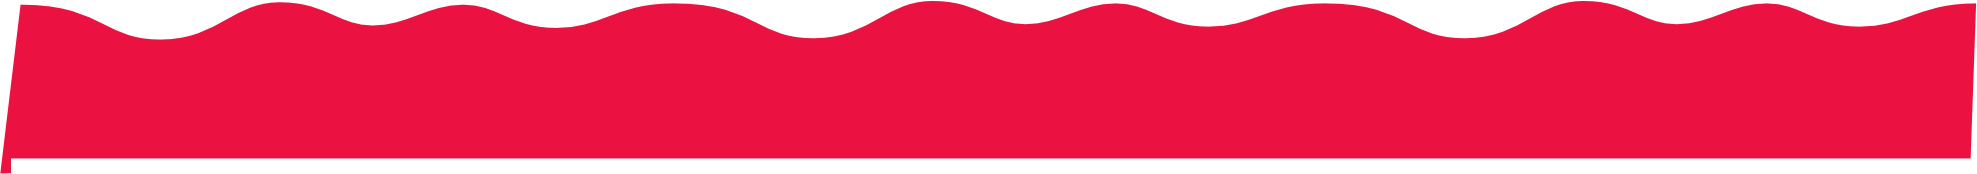
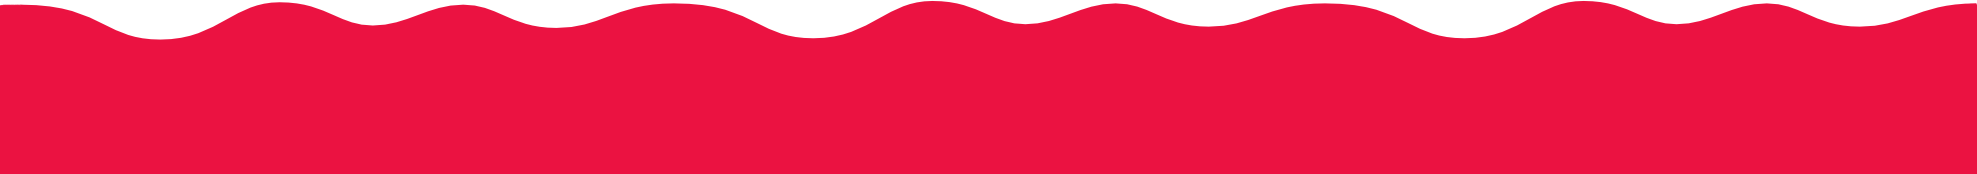
feat: update footer layout with new wave design, improved structure, and enhanced styling for better visual appeal

Changed region(s): [[0.0, 0.2299, 1.0, 1.0], [0.0, 0.0287, 0.0309, 0.7184]]

diff --git a/index.html b/index.html
@@ -591,50 +591,53 @@
     </section>
   </main>
 
-  <div class="section-divider section-divider--waves section-divider--waves-order-4 section-divider--flip"
+  <div class="section-divider section-divider--waves section-divider--waves-order-4"
     aria-hidden="true">
     <div class="section-divider__wave section-divider__wave--1"></div>
-    <div class="section-divider__wave section-divider__wave--2"></div>
+    
     <div class="section-divider__wave section-divider__wave--3"></div>
     <div class="section-divider__wave section-divider__wave--4"></div>
     <div class="section-divider__wave section-divider__wave--5"></div>
   </div>
 
   <footer class="site-footer">
-    <div class="container site-footer__grid">
-      <div>
-        <p class="site-footer__brand">Fruta Norte</p>
-        <p>Polpas de açaí premium com alma brasileira e visual de rua.</p>
-        <div class="site-footer__social">
-          <a href="https://wa.me/5500000000000" aria-label="WhatsApp" rel="noopener noreferrer"><img
-              src="assets/icons/whatsapp.svg" width="22" height="22" loading="lazy" alt="" /></a>
-          <a href="#" aria-label="Instagram" rel="noopener noreferrer"><img src="assets/icons/instagram.svg"
-              width="22" height="22" loading="lazy" alt="" /></a>
-          <a href="#" aria-label="Facebook" rel="noopener noreferrer"><img src="assets/icons/facebook.svg" width="22"
-              height="22" loading="lazy" alt="" /></a>
-          <a href="#" aria-label="YouTube" rel="noopener noreferrer"><img src="assets/icons/youtube.svg" width="22"
-              height="22" loading="lazy" alt="" /></a>
+    <div class="site-footer__top-wave" aria-hidden="true"></div>
+    <div class="site-footer__body">
+      <div class="container site-footer__grid">
+        <div>
+          <p class="site-footer__brand">Fruta Norte</p>
+          <p>Polpas de açaí premium com alma brasileira e visual de rua.</p>
+          <div class="site-footer__social">
+            <a href="https://wa.me/5500000000000" aria-label="WhatsApp" rel="noopener noreferrer"><img
+                src="assets/icons/whatsapp.svg" width="22" height="22" loading="lazy" alt="" /></a>
+            <a href="#" aria-label="Instagram" rel="noopener noreferrer"><img src="assets/icons/instagram.svg"
+                width="22" height="22" loading="lazy" alt="" /></a>
+            <a href="#" aria-label="Facebook" rel="noopener noreferrer"><img src="assets/icons/facebook.svg" width="22"
+                height="22" loading="lazy" alt="" /></a>
+            <a href="#" aria-label="YouTube" rel="noopener noreferrer"><img src="assets/icons/youtube.svg" width="22"
+                height="22" loading="lazy" alt="" /></a>
+          </div>
+        </div>
+        <div>
+          <h2 class="site-footer__title">Navegação</h2>
+          <ul class="site-footer__list">
+            <li><a href="#inicio">Início</a></li>
+            <li><a href="#sobre">Sobre</a></li>
+            <li><a href="#produtos">Produtos</a></li>
+            <li><a href="#contato">Contato</a></li>
+          </ul>
+        </div>
+        <div>
+          <h2 class="site-footer__title">Contato</h2>
+          <ul class="site-footer__list">
+            <li><a href="mailto:contato@frutanorte.com.br">contato@frutanorte.com.br</a></li>
+            <li><a href="#contato">Fale com a equipe</a></li>
+          </ul>
         </div>
       </div>
-      <div>
-        <h2 class="site-footer__title">Navegação</h2>
-        <ul class="site-footer__list">
-          <li><a href="#inicio">Início</a></li>
-          <li><a href="#sobre">Sobre</a></li>
-          <li><a href="#produtos">Produtos</a></li>
-          <li><a href="#contato">Contato</a></li>
-        </ul>
+      <div class="container site-footer__bottom">
+        <p>&copy; <span data-year></span> Fruta Norte. Todos os direitos reservados.</p>
       </div>
-      <div>
-        <h2 class="site-footer__title">Contato</h2>
-        <ul class="site-footer__list">
-          <li><a href="mailto:contato@frutanorte.com.br">contato@frutanorte.com.br</a></li>
-          <li><a href="#contato">Fale com a equipe</a></li>
-        </ul>
-      </div>
-    </div>
-    <div class="container site-footer__bottom">
-      <p>&copy; <span data-year></span> Fruta Norte. Todos os direitos reservados.</p>
     </div>
   </footer>
 

diff --git a/css/components.css b/css/components.css
@@ -836,7 +836,7 @@
 
 .section-divider--waves {
   width: 100%;
-  height: 140px;
+  height: 139px;
   line-height: 0;
   z-index: var(--z-section-divider-waves);
   margin-top: -120px;
@@ -852,6 +852,12 @@
 /* Ajuste de empilhamento para transição após "Apresentação" */
 .section-divider--waves-order-5 {
   z-index: 135;
+}
+
+/* Ondas entre rodapé e Contato: acima de .section--contato (z-index 146); invadem a faixa inferior do contato */
+.section-divider--waves-order-4 {
+  z-index: 147;
+  margin-top: clamp(-245px, calc(-20vw - 50px), -218px);
 }
 
 /* Ondas entre Produtos e Contato: acima do bloco .section--produtos (z-index 140) */
@@ -1393,7 +1399,9 @@
 
 .contato__body {
   background: #faf2dc;
-  padding-block: 0 var(--space-12);
+  padding-top: 0;
+  /* Espaço extra para as ondas do rodapé invadirem por cima da área creme, sem encostar no formulário */
+  padding-bottom: calc(var(--space-12) + clamp(44px, 9vw, 100px) + 48px);
   position: relative;
   z-index: 1;
   overflow: visible;
@@ -1432,6 +1440,7 @@
 
 .contato__split {
   --contato-img-bleed: clamp(72px, 10vw, 160px);
+  --contato-figure-shift-down: clamp(56px, 9vw, 120px);
   flex: 1 1 auto;
   min-height: 0;
   display: grid;
@@ -1460,7 +1469,7 @@
   position: relative;
   z-index: 3;
   margin: 0;
-  margin-top: calc(-1 * var(--contato-img-bleed));
+  margin-top: calc(-1 * var(--contato-img-bleed) + var(--contato-figure-shift-down));
   padding: 0;
   align-self: stretch;
   justify-self: stretch;
@@ -1481,7 +1490,7 @@
   min-height: 0;
   height: 0;
   object-fit: contain;
-  object-position: left center;
+  object-position: left bottom;
 }
 
 .contato__form-column {
@@ -2004,6 +2013,10 @@
     margin-bottom: var(--space-4);
   }
 
+  .site-footer__top-wave {
+    height: clamp(32px, 12vw, 56px);
+  }
+
   .sobre__header {
     margin-bottom: var(--space-6);
   }
@@ -2048,7 +2061,7 @@
   .contato__figure {
     grid-column: 1;
     grid-row: 1;
-    margin-top: clamp(-40px, -8vw, -72px);
+    margin-top: calc(clamp(-40px, -8vw, -72px) + clamp(36px, 7vw, 80px));
     justify-self: stretch;
     width: 100%;
     max-width: none;
@@ -2312,17 +2325,40 @@
 
 /* ——— Footer ——— */
 .site-footer {
-  background: var(--color-purple-dark);
-  color: rgba(255, 255, 255, 0.88);
-  padding-block: var(--space-12);
+  position: relative;
+  z-index: 148;
+  background: transparent;
+}
+
+/* Corpo do rodapé: fundo vermelho só abaixo da onda (a onda fica sem bg por trás) */
+.site-footer__body {
+  background: #eb1241;
+  color: #fff;
+  padding-top: clamp(var(--space-4), 3vw, var(--space-8));
+  padding-bottom: var(--space-12);
+}
+
+.site-footer__top-wave {
+  position: relative;
+  z-index: 2;
+  width: 100%;
+  height: clamp(40px, 6vw, 88px);
+  background-color: transparent;
+  background-image: url("../assets/images/wave-red.png");
+  background-repeat: no-repeat;
+  background-size: 100% 100%;
+  background-position: center top;
+  margin-top: clamp(-28px, -3vw, -12px);
+  margin-bottom: 0;
 }
 
 .site-footer a {
-  color: var(--color-yellow-light);
+  color: #fff;
 }
 
 .site-footer a:hover {
-  color: var(--color-white);
+  color: rgba(255, 255, 255, 0.85);
+  text-decoration: underline;
 }
 
 .site-footer__grid {
@@ -2349,7 +2385,7 @@
   font-size: 0.875rem;
   text-transform: uppercase;
   letter-spacing: 0.08em;
-  color: var(--color-yellow);
+  color: rgba(255, 255, 255, 0.95);
   margin-bottom: var(--space-4);
 }
 
@@ -2386,7 +2422,7 @@
 }
 
 .site-footer__social a:hover {
-  background: var(--color-magenta);
+  background: rgba(255, 255, 255, 0.25);
   transform: translateY(-3px);
 }
 
@@ -2399,9 +2435,10 @@
 .site-footer__bottom {
   margin-top: var(--space-12);
   padding-top: var(--space-8);
-  border-top: 1px solid rgba(255, 255, 255, 0.15);
+  border-top: 1px solid rgba(255, 255, 255, 0.25);
   font-size: 0.875rem;
   text-align: center;
+  color: rgba(255, 255, 255, 0.92);
 }
 
 /* ——— Página interna ——— */
